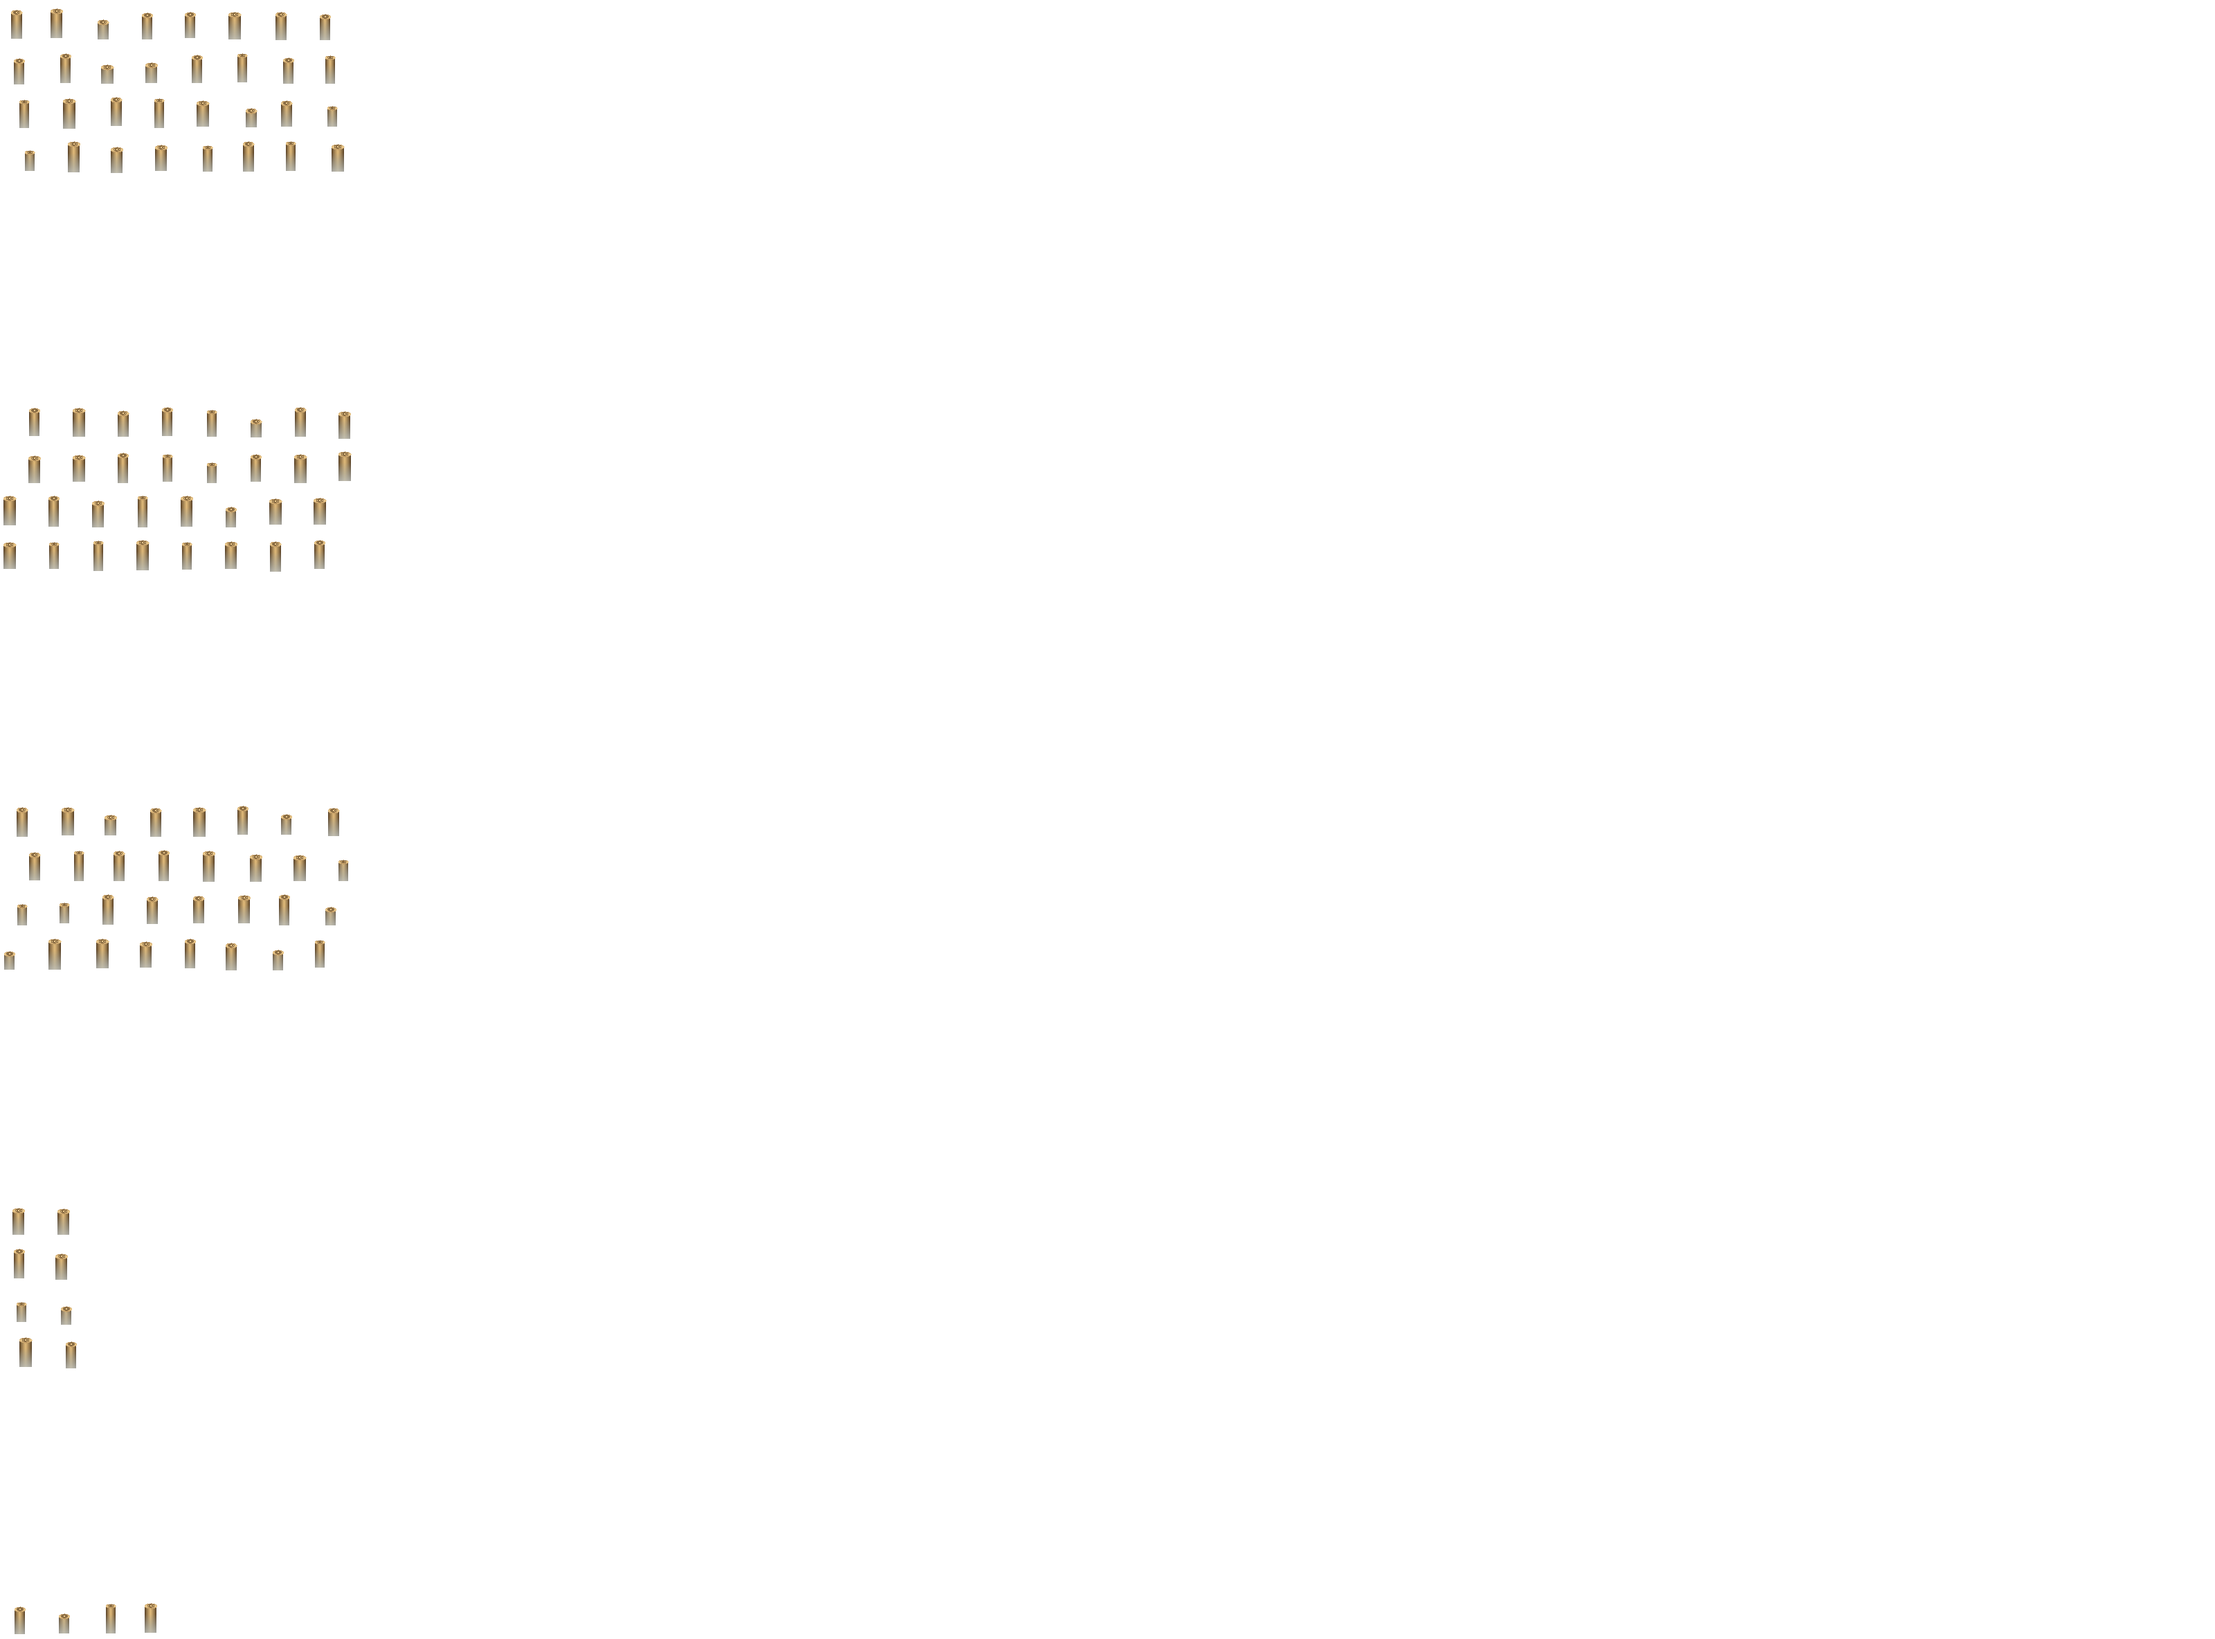
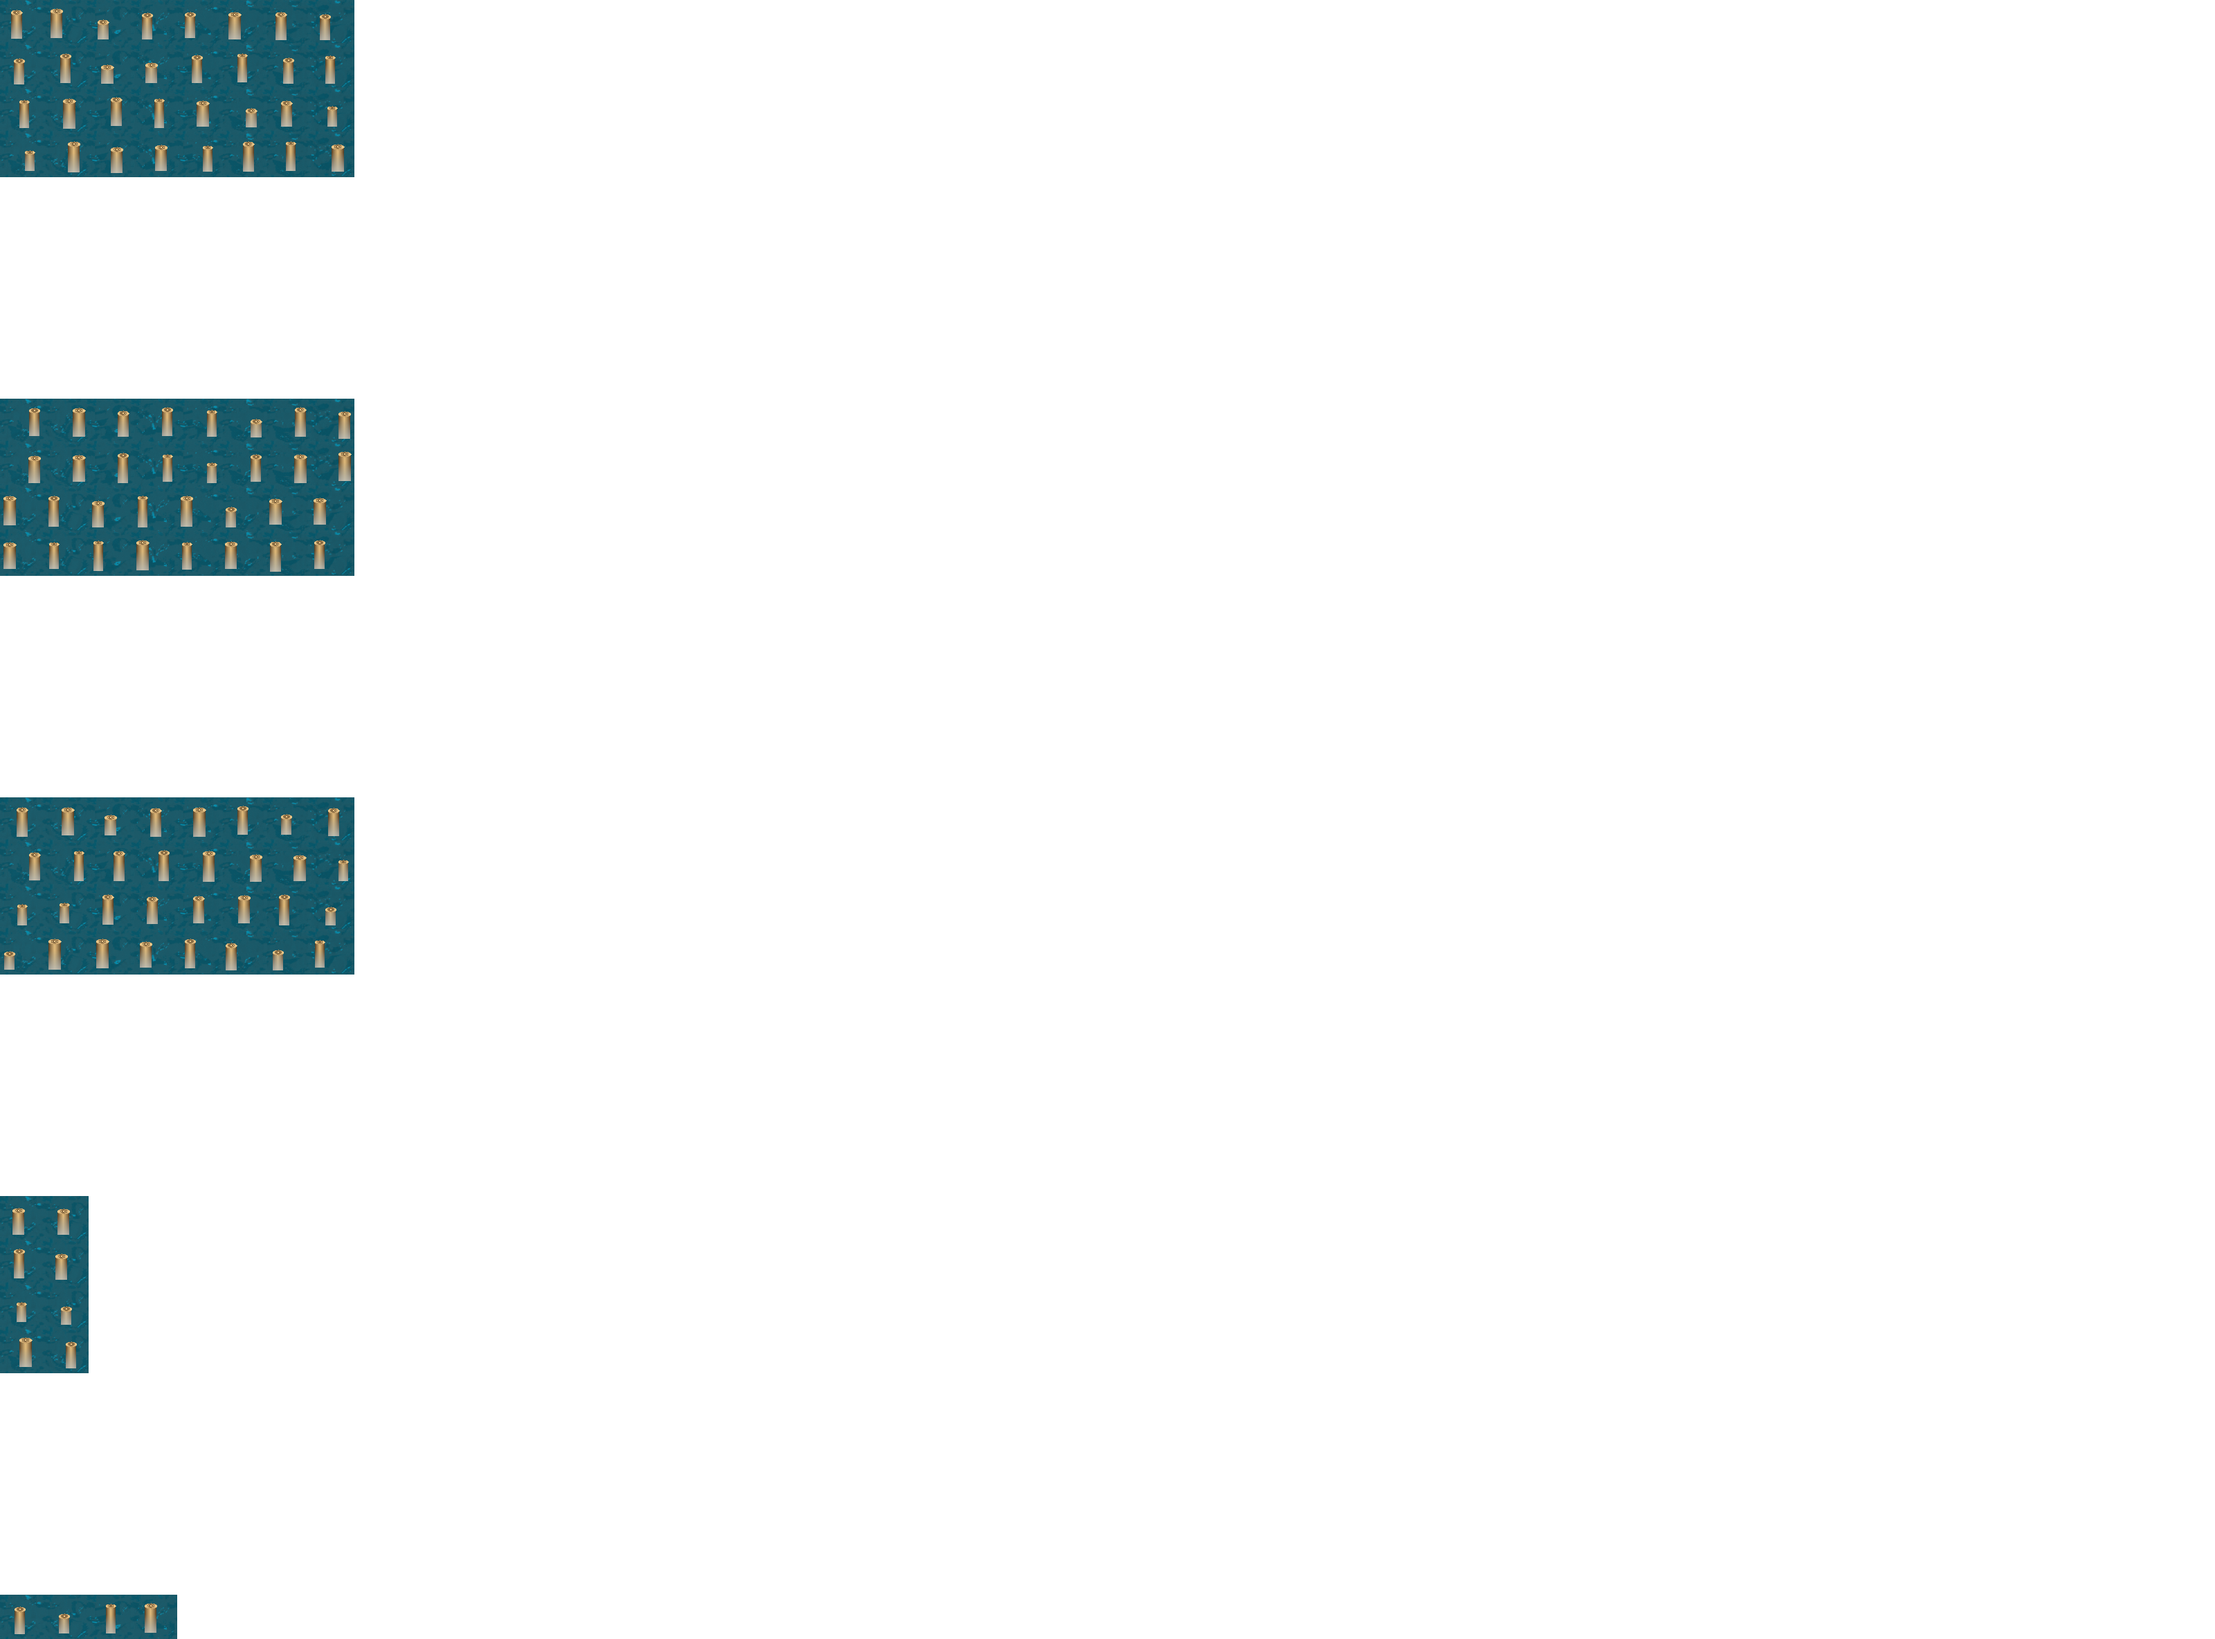
Round 12: the old pipeline + opaque plain-water composite sheets
Model synthesis from rounds 10-11: the pre-darkening sits BENEATH shore
renders (coverage defeats it); the halo = the vanilla pale-blend base;
the variant channel is mask-less and thus never emerging. Round 12 = the
ford's own piling rules restored (A masked = emerging crowns; C unmasked
= submerged; B = control, no piling rule) over OPAQUE plain-water
composite sheets (the pre-darkening covered, seamless = no halo), and
the variant edge overlays retired (empty_transitions) so the halo goes
on every ford. Generator: variant channel removed.

diff --git a/tools/gen-placeholders.py b/tools/gen-placeholders.py
@@ -31,48 +31,12 @@ from PIL import Image
 import numpy as np, random, math
 
 BASE = "/home/nmrp3/.local/share/factorio_2_dlc/data/base/graphics/terrain/water-transitions/"
+VB = "/home/nmrp3/.local/share/factorio_2_dlc/data/base/graphics/terrain"
 BANDS = [(0, 8, 4), (576, 8, 4), (1152, 8, 4), (1728, 2, 4), (2304, 4, 1)]  # (band y, columns, direction rows)
 CELL = 64          # square piece, px on the 2x sheet (= 1 water tile)
 
 DECK_WASH = (38, 70, 82)   # painted "seen through shallow water" tint for the deck
 DECK_WASH_STRENGTH = 0.0   # 0 = pristine deck (the water effect provides the wet look)
-
-# variant-edge post sheets: layout copied from vanilla water-shallow overlays
-# (inner/outer/side = 6 cols x 4 direction rows of 64x64; u = 1x4; o = 1x1).
-# v1 = posts centred (Ford A); v2 = posts snugged outward per row (Ford C).
-# Direction rows follow the transition convention N,E,S,W for the shift.
-VSPEC = [("inner", 6), ("outer", 6), ("side", 6), ("u", 1), ("o", 1)]
-SNUG = {0: (0, -6), 1: (8, 0), 2: (0, 8), 3: (-8, 0)}
-
-VB = "/home/nmrp3/.local/share/factorio_2_dlc/data/base/graphics/terrain"
-VANILLA_SHEETS = {
-    "inner": "water-shallow/water-shallow-inner-corner.png",
-    "outer": "/water-shallow/water-shallow-outer-corner.png",
-    "side":  "water-shallow/water-shallow-side.png",
-    "u":     "water-shallow/water-shallow-u.png",
-    "o":     "water-shallow/water-shallow-o.png",
-}
-
-def emit_variant_sheets():
-    # round 11: each variant piece = the vanilla shoreline blending art (the
-    # engine pre-darkens whatever renders in the shore slot; vanilla art is
-    # shaped to cover that treatment - round-10's sparse posts exposed it) with
-    # the post composited on top. Data layer unchanged; only the sheet content.
-    for tag, do_snug in (("v1", False), ("v2", True)):
-        for name, cols in VSPEC:
-            base = np.asarray(Image.open(VB + "/" + VANILLA_SHEETS[name]).convert("RGBA")).astype(np.float32)
-            sh = base.copy()
-            H, W = sh.shape[0], sh.shape[1]
-            rows = H // 64
-            for col in range(cols):
-                for row in range(rows):
-                    ox, oy = col * 64, row * 64
-                    sx, sy = SNUG[row] if do_snug else (0, 0)
-                    h = min(rng.randint(P["hmin"], P["hmax"]), 40)
-                    w = P["w"] + rng.randint(-2, 2)
-                    draw_post(sh, ox + 32 + sx, oy + 54 + sy, oy, h, w, P)
-            Image.fromarray(sh.clip(0, 255).astype(np.uint8), "RGBA").save(f"piling-{tag}-{name}.png")
-    print(f"piling-v1/v2-*: variant edge sheets ({', '.join(n for n, _ in VSPEC)}); ", end="")
 
 P = dict(w=16, hmin=38, hmax=46, jpos=3, foot=115.0, seed=41000,
          dark=(70, 48, 26), lite=(224, 186, 122), cap=(238, 204, 142), capedge=(184, 144, 90),
@@ -86,6 +50,9 @@ DECK_DRY = 0.0      # else-value MUST be 0: vanilla's own water-side effect map
                     # (water-dirt-mask.png, landfill's shore rule) is R=0 outside
                     # its art = "water renders normally"; R>0 = suppression = dark
                     # patches on plain water tiles (the tile-wide neighbour shadows)
+
+wf_img = np.asarray(Image.open(VB + "/water/water1.png").convert("RGBA")).astype(np.float32)
+WATER_FRAMES = [wf_img[:, i * 64:(i + 1) * 64, :].copy() for i in range(8)]
 
 van = np.asarray(Image.open(BASE + "landfill.png").convert("RGBA")).astype(np.float32)
 alpha2 = van[..., 3]
@@ -142,6 +109,10 @@ for y0, cols, rows in BANDS:
             w = P["w"] + rng.randint(-2, 2)
             h = min(rng.randint(P["hmin"], P["hmax"]), base_rel - 12)
             if rng.random() < P["wf"]: h = int(h * P["wfac"])
+            # composite base: opaque plain-water frame under the post (round 12) -
+            # covers the engine's pre-darkening beneath transition renders (round-11
+            # lesson) while staying seamless with the surrounding water (no pale halo)
+            art[win_y:win_y + CELL, cx0:cx0 + CELL, :] = WATER_FRAMES[c % 8]
             bx, by = cx0 + px_rel, win_y + base_rel
             draw_post(art, bx, by, win_y, h, w, P)
             # mask: crown fully dry; foot ramps to 50% dryness and HOLDS to the base
@@ -159,7 +130,6 @@ for y0, cols, rows in BANDS:
             n += 1
 
 Image.fromarray(art.clip(0, 255).astype(np.uint8), "RGBA").save("pilings-exp.png")
-emit_variant_sheets()
 m = np.zeros((2368, 512, 4), np.float32)
 m[..., 0] = m[..., 1] = m[..., 2] = mask
 m[..., 3] = 255.0
